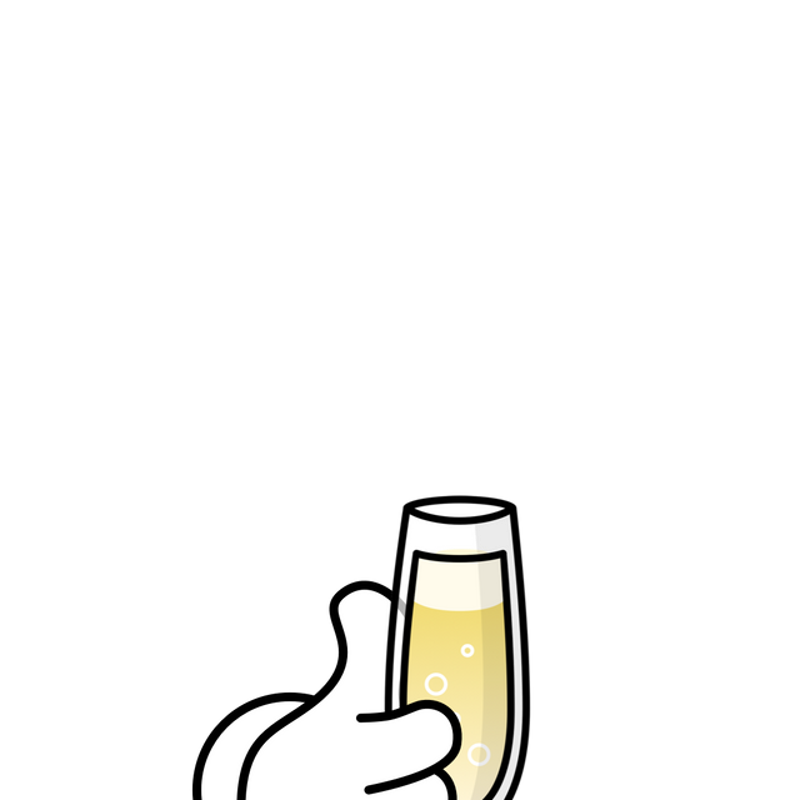
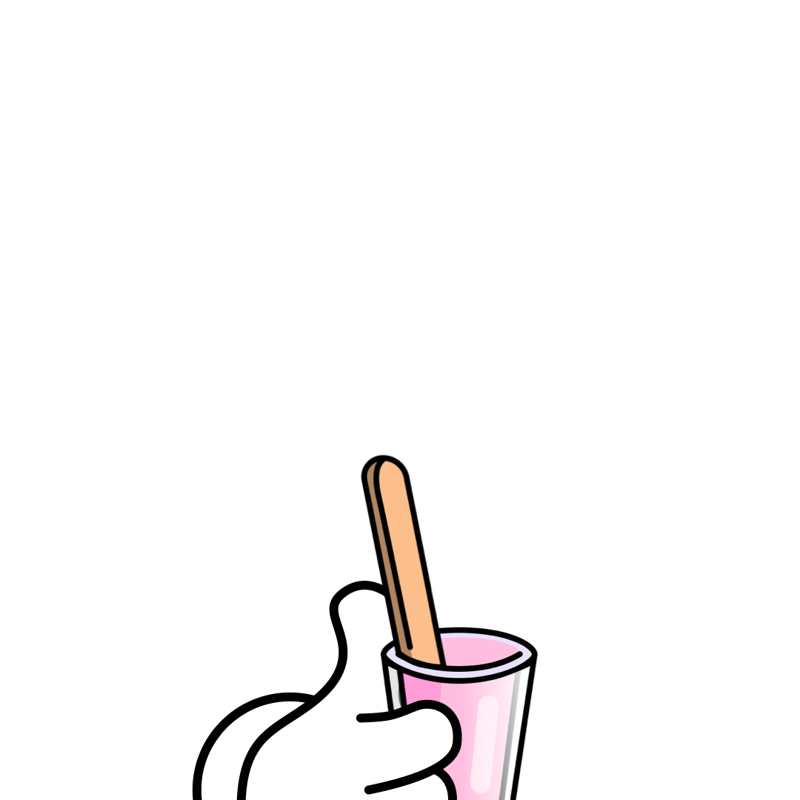
Fixed error when trying to remix with another drink

Changed region(s): [[0.4375, 0.5625, 0.6875, 1.0]]

diff --git a/templates/gallery.html b/templates/gallery.html
@@ -16,6 +16,9 @@
         h1 {
             text-align: center;
             font-family: sans-serif;
+            align-items: center;
+            position: absolute;
+            left: 45%; 
            }
         p{
           color: white;
@@ -30,13 +33,16 @@
         .navbar{
         margin: auto;
         padding: 5px 0;
+        width: 89%;
         display: flex;
         align-items: center;
         justify-content: space-between;
         color: white;
+        position: absolute;
+        left: 110px;
         }
 /*         border: 5px outset white; */
-        .twitter-follow-button{
+        .twitter-button{
           color:#1d9bf0;
           font-size: 30px;
           padding: 15px;
@@ -103,31 +109,7 @@
           width: 17.5%;
 /*           border: 5px outset white; */
             & > span,
-          .form-field {
-            white-space: nowrap;
-            display: block;
-            &:not(:first-child):not(:last-child) {
-              border-radius: 0;
           }
-          &:first-child {
-              border-radius: 6px 0 0 6px;
-          }
-          &:last-child {
-            border-radius: 0 6px 6px 0;
-          }
-          &:not(:first-child) {
-             margin-left: -1px;
-          }
-      }
-    .form-field {
-        position: relative;
-        z-index: 1;
-        flex: 1 1 auto;
-        width: 1%;
-        margin-top: 0;
-        margin-bottom: 0;
-    }
-}
 
 html {
     box-sizing: border-box;
@@ -175,7 +157,7 @@ html {
         position: absolute;
         top: 550px;
       }
-        input[type=save] {
+        input[class=save] {
         background: #ceb373;
         border-radius: 8px;
         border: none;
@@ -187,7 +169,7 @@ html {
         margin: 4px 2px;
         cursor: pointer;
         position: absolute;
-        width: 130px;
+        width: 155px;
         top: 550px;
         left: 980px;
       }
@@ -200,7 +182,7 @@ html {
         <img src="https://i.ibb.co/2cCbLyQ/island-labs-FAW-03-1.jpg" width="140"
         height="140" alt="Island Labs">
         <h1>TEMPLATES</h1>
-        <a href="https://twitter.com/Island_Labs" target="_blank" class="twitter-follow-button"><ion-icon name="logo-twitter" ></ion-icon></a>
+        <a href="https://twitter.com/Island_Labs" target="_blank" class="twitter-button"><ion-icon name="logo-twitter" ></ion-icon></a>
   </div>
 	   <form action = {{ url_for('result') }} method = "POST">   
       <div class="form-group">
@@ -214,7 +196,12 @@ html {
         background: #ecf2f6;
         border-top-left-radius: 6px;
         border-bottom-left-radius: 6px">Doodle ID</span>
-        <input class="form-field" type="number" min="1" max="9999" name = "Doodle" placeholder="Enter Doodle #">
+<!--         <input class="form-field" type="number" min="1" max="9999" id="Doodle_id" name = "Doodle" placeholder="Enter Doodle #" value=""> -->
+        {% if remix==True %} 
+          <input class="form-field" type="number" min="1" max="9999" id="Doodle_id" name = "Doodle" placeholder="Exit Doodle #" value={{ dood_num }}>
+        {% else %}
+          <input class="form-field" type="number" min="1" max="9999" name = "Doodle" placeholder="Enter Doodle #" value="">
+        {% endif %}
       </div>
       <i class="fa fa-plus" 
         style="font-size:24px;
@@ -255,7 +242,7 @@ html {
       {% endif %}
 <!-- 		  <img src="static/results/framed_doodle1.png" id="main" alt="Preview"> -->
 	  </div>
-    <p><input type = "save" value = "fins.wtf" /></p>
+<!--     <p><input class="save" value = "Download" onclick= "save2()"/></p> -->
 <!-- 	</div> -->
 
 	<script type="text/javascript">
@@ -263,7 +250,19 @@ html {
 			document.getElementById('main').src = src
       document.getElementById('drink_id').value = src
 		}
+    
+    // function save2() {
+    //   window.open(canvas.toDataURL("static/results/framed_doodle1.png"));
+    //   var gh = canvas.toDataURL('png');
+  
+    //   var a  = document.createElement('a');
+    //   a.href = gh;
+    //   a.download = 'Doodle.png';
+  
+    //   a.click()
+    // }
 	</script>
+  
   <script type="module" src="https://unpkg.com/ionicons@5.5.2/dist/ionicons/ionicons.esm.js"></script>
   <script nomodule src="https://unpkg.com/ionicons@5.5.2/dist/ionicons/ionicons.js"></script>
 </body>

diff --git a/main.py b/main.py
@@ -32,13 +32,15 @@ def result():
   if request.method == 'POST':
     #result = request.form
     Doodle = request.form.get("Doodle")
+    # if isinstance(Doodle, int) == False:
+    #   raise ValueError("Number missing!")
     drink = request.form.get("drink")
     proc_fins.compute("AAA.png", "BBB.png", "final_new.png",
                       str(Doodle), drink)
     full_filename = os.path.join(app.config['UPLOAD_FOLDER'], 'final_new.png')
     AAA = os.path.join(app.config['UPLOAD_FOLDER'], 'AAA.png')
     BBB = os.path.join(app.config['UPLOAD_FOLDER'], 'BBB.png')
-    return render_template("gallery.html", remix=remix)
+    return render_template("gallery.html", remix=remix, dood_num=Doodle)
     # return render_template("result.html",
     #                        user_image=full_filename,
     #                        AAA_image=AAA,

diff --git a/proc_fins.py b/proc_fins.py
@@ -27,7 +27,7 @@ def compute(INPUT_FG: str, INPUT_BG: str, OUTPUT: str, DOOD_TKN: str,
   metadata = json.loads(response.text)
 
   # print(DOOD_TKN)
-  # print(metadata)
+  # print(url)
               
   image_metadata = metadata["metadata"]
 
